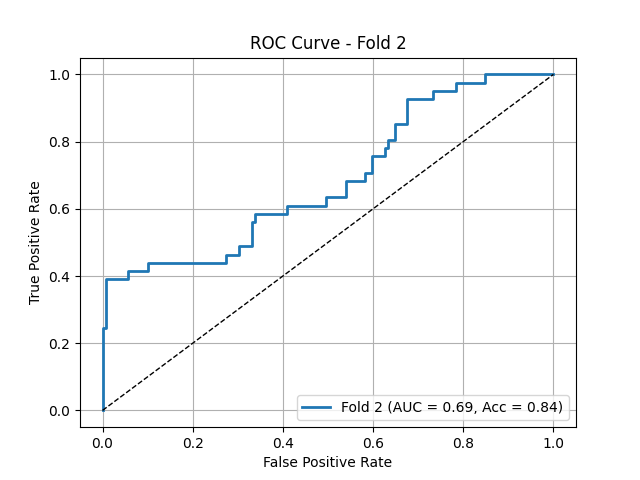
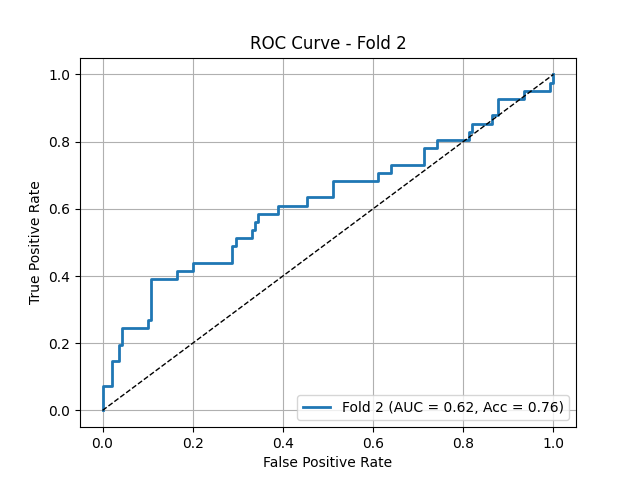
patient greater than 120

diff --git a/dataset_washu2.py b/dataset_washu2.py
@@ -84,7 +84,7 @@ train_transform = A.Compose([
 	A.ShiftScaleRotate(shift_limit=0.005, scale_limit=0.005, rotate_limit=10, border_mode=0, value=0, p=0.5), 
     A.ElasticTransform(alpha = 5, sigma = 250, p=0.5),
     A.GridDistortion(distort_limit=(-0.2,0.2), p=0.5),
-	A.GaussNoise(std_range=(0.02, 0.1), p=0.9),
+	A.GaussNoise(std_range=(0.02, 0.05), p=0.9),
     A.RandomBrightnessContrast(brightness_limit=(0, 0.01), contrast_limit=(0, 0.01), p=0.5),
     # #A.CLAHE(clip_limit=.5, tile_grid_size=(8, 8), p=0.5),
     A.Downscale(scale_range=(0.85,0.99), p=0.5),
@@ -144,7 +144,7 @@ class Classificaiton_Dataset(Dataset):
 		df["PatientSide"] = df.apply(lambda row: f"p{row['Patient ID']}_{row['Side']}", axis=1)
 
 		# === Define test set based on Patient ID < 21 ===
-		df["IsTest"] = df["Patient ID"] <= 20
+		df["IsTest"] = df["Patient ID"] >= 120
 		test_case_set = set(df[df["IsTest"]]["PatientSide"].tolist())
 
 		# === Construct GT map ===

diff --git a/train_onlytorch.py b/train_onlytorch.py
@@ -70,7 +70,7 @@ for fold in range(k_fold):
                                  sdf_model_path= r"checkpoints\deeplabv3_sdf_randomcrop\model_20250711_201243\epoch_84",
                                  radiomics= False).to(device)
 
-    optimizer = torch.optim.Adam(model.parameters(), lr=1e-6, weight_decay=1e-5)
+    optimizer = torch.optim.Adam(model.parameters(), lr=5e-5, weight_decay=1e-5)
     best_val_auc = -1
     best_combined_score = -1 
     best_model_state = None 
